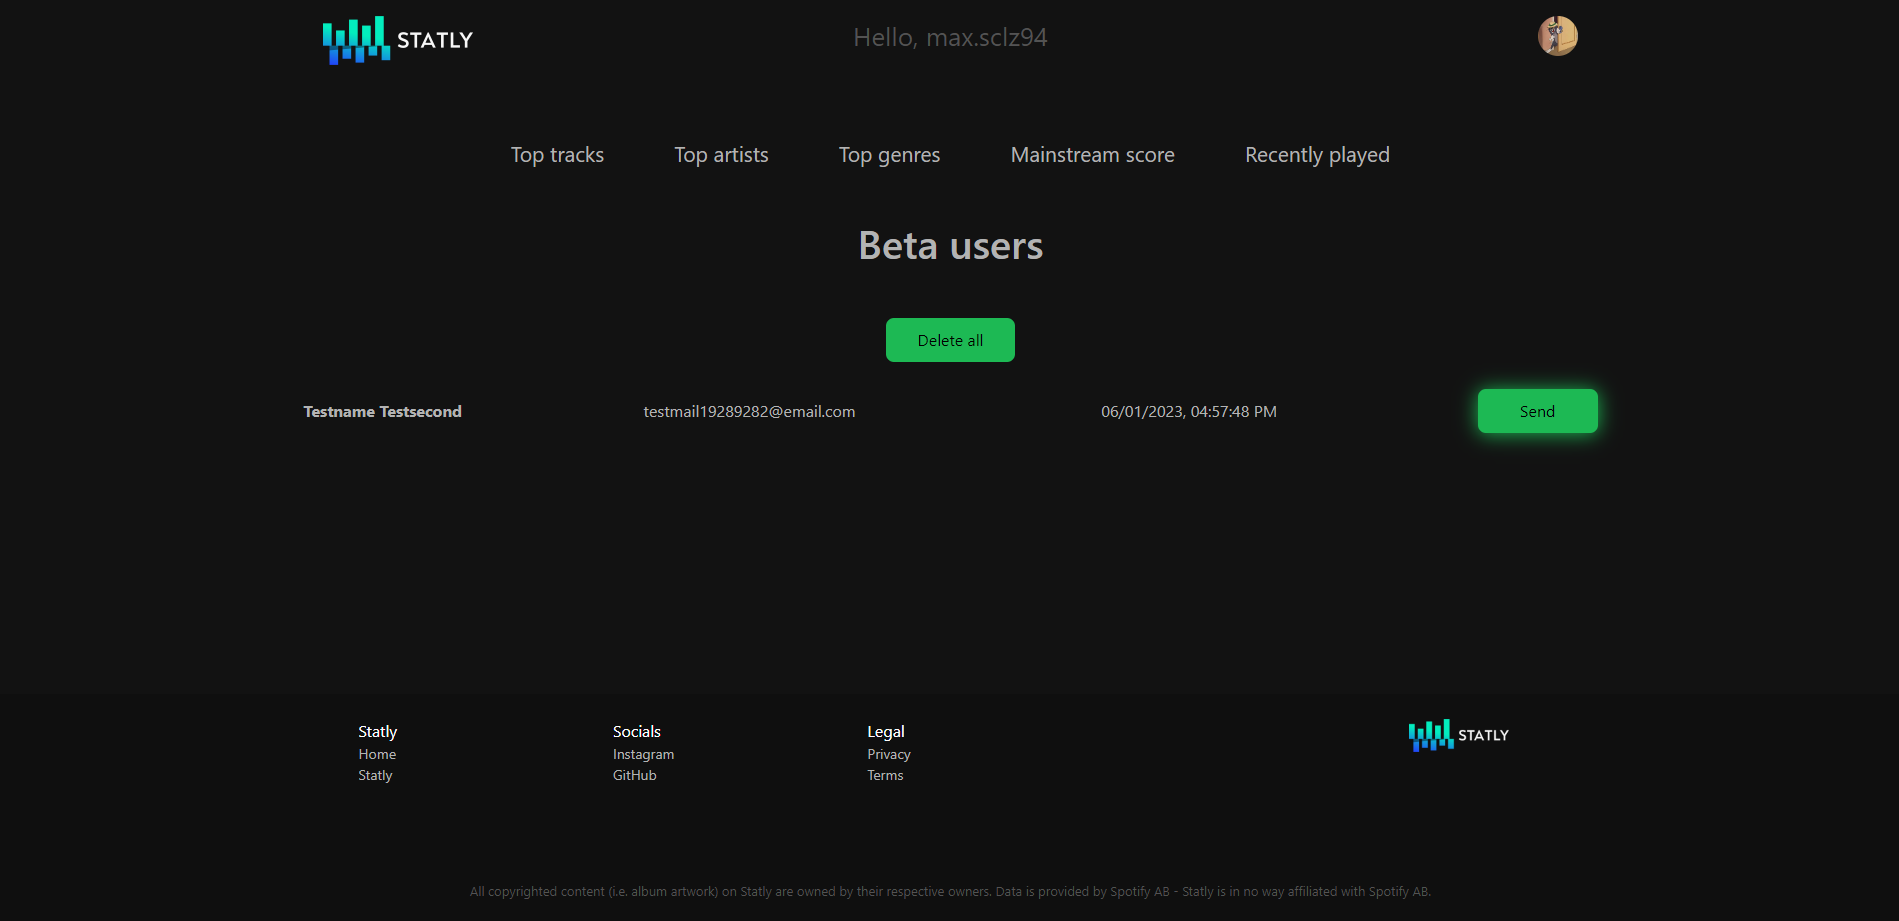
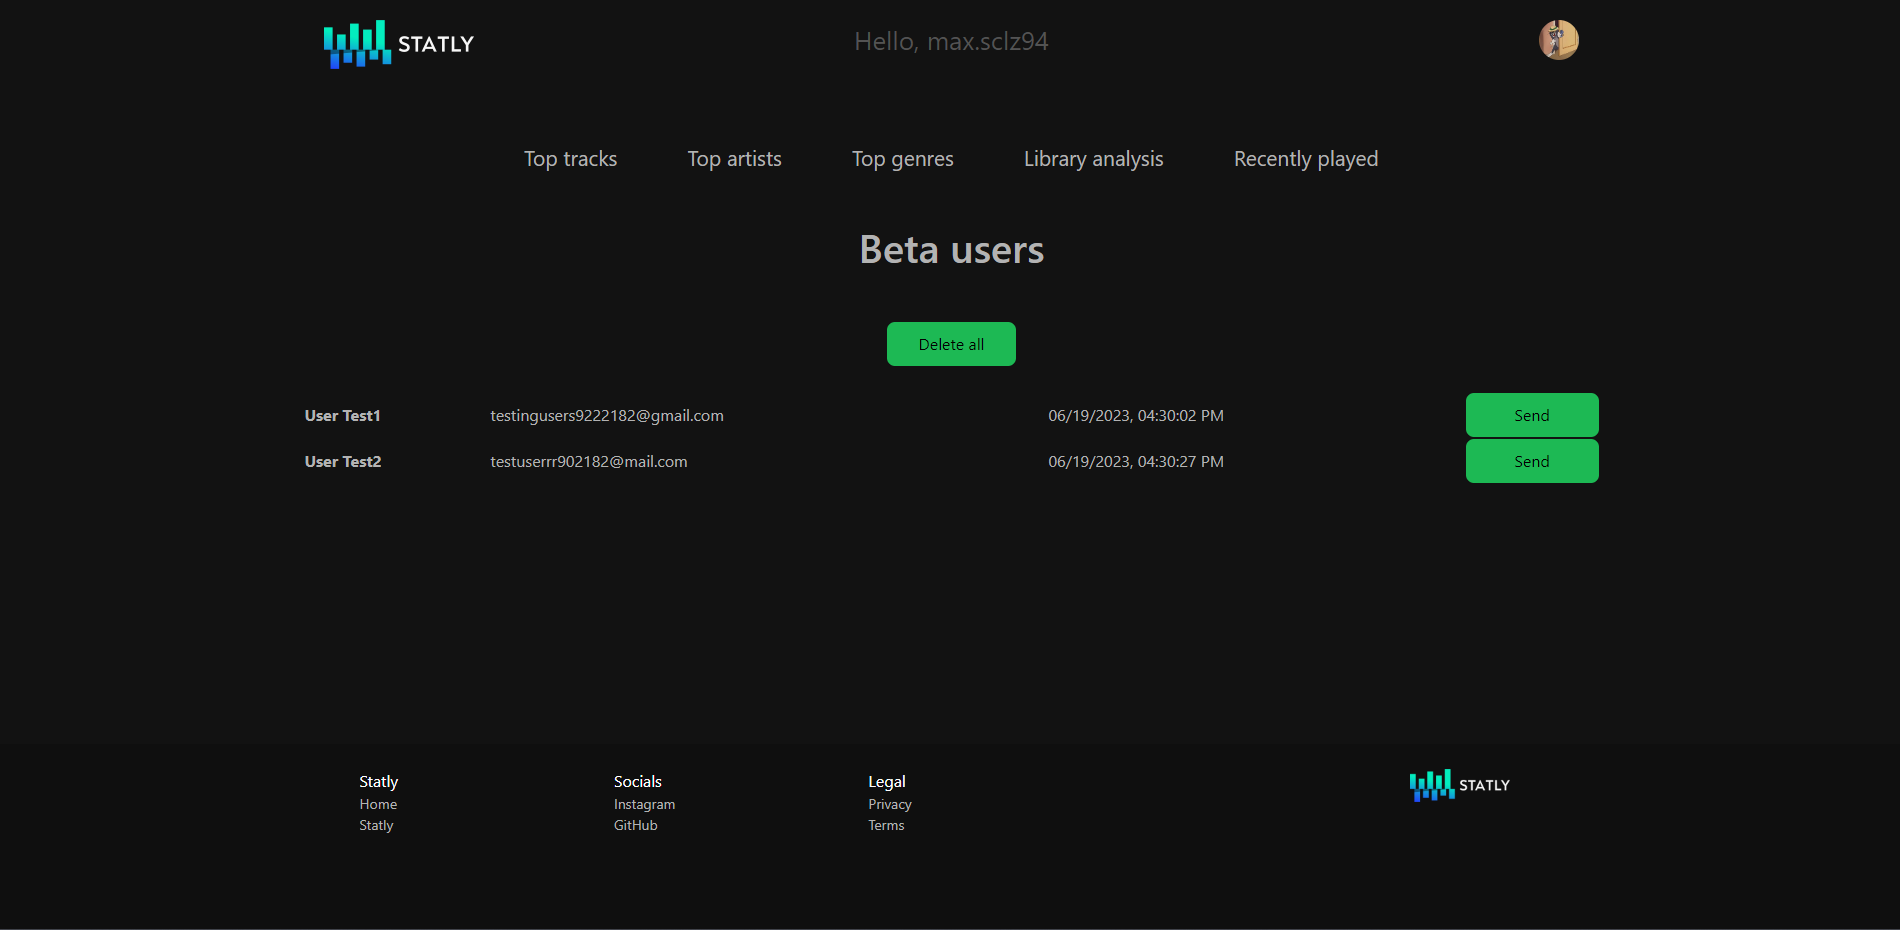
Modified join method in UserController, changes in README.md

diff --git a/src/main/java/com/laa66/statlyapp/controller/UserController.java b/src/main/java/com/laa66/statlyapp/controller/UserController.java
@@ -1,16 +1,12 @@
 package com.laa66.statlyapp.controller;
 
 import com.laa66.statlyapp.DTO.BetaUserDTO;
-import com.laa66.statlyapp.DTO.UserDTO;
-import com.laa66.statlyapp.model.Image;
 import com.laa66.statlyapp.service.MailService;
 import com.laa66.statlyapp.service.SpotifyAPIService;
 import com.laa66.statlyapp.service.UserService;
 import jakarta.servlet.http.HttpServletRequest;
 import jakarta.servlet.http.HttpServletResponse;
 import lombok.RequiredArgsConstructor;
-import org.apache.commons.lang3.StringUtils;
-import org.springframework.beans.factory.annotation.Value;
 import org.springframework.http.HttpHeaders;
 import org.springframework.http.HttpStatus;
 import org.springframework.http.ResponseEntity;
@@ -48,9 +44,9 @@ public class UserController {
         return ResponseEntity.ok(dto);
     }
 
-    @PostMapping("/beta/join")
-    public ResponseEntity<Void> join(@RequestBody BetaUserDTO betaUserDTO) {
-        userService.saveBetaUser(betaUserDTO);
+    @GetMapping("/beta/join")
+    public ResponseEntity<Void> join(@RequestParam("name") String fullName, @RequestParam("email") String email) {
+        userService.saveBetaUser(new BetaUserDTO(fullName, email, null));
         mailService.sendJoinBetaNotification();
         return ResponseEntity.noContent().build();
     }

diff --git a/src/test/java/com/laa66/statlyapp/controller/UserControllerUnitTest.java b/src/test/java/com/laa66/statlyapp/controller/UserControllerUnitTest.java
@@ -8,6 +8,7 @@ import com.laa66.statlyapp.repository.*;
 import com.laa66.statlyapp.service.MailService;
 import com.laa66.statlyapp.service.SpotifyAPIService;
 import com.laa66.statlyapp.service.UserService;
+import org.junit.jupiter.api.Disabled;
 import org.junit.jupiter.api.Test;
 import org.junit.jupiter.api.extension.ExtendWith;
 import org.springframework.beans.factory.annotation.Autowired;
@@ -123,10 +124,10 @@ class UserControllerUnitTest {
 
     @Test
     void shouldJoinBeta() throws Exception {
-        BetaUserDTO dto = new BetaUserDTO("name", "email", null);
-        mockMvc.perform(post("/user/beta/join").with(oauth2Login())
+        mockMvc.perform(get("/user/beta/join").with(oauth2Login())
                         .contentType(MediaType.APPLICATION_JSON)
-                        .content(mapper.writeValueAsString(dto)))
+                        .param("name", "name")
+                        .param("email", "email"))
                 .andExpect(status().isNoContent());
         verify(userService, times(1)).saveBetaUser(isA(BetaUserDTO.class));
         verify(mailService, times(1)).sendJoinBetaNotification();

diff --git a/src/main/java/com/laa66/statlyapp/config/SecurityConfig.java b/src/main/java/com/laa66/statlyapp/config/SecurityConfig.java
@@ -75,9 +75,9 @@ public class SecurityConfig {
                         .csrfTokenRepository(tokenRepository)
                         .csrfTokenRequestHandler(requestHandler))
                 .authorizeHttpRequests()
+                .requestMatchers(HttpMethod.GET, "/user/beta/join").permitAll()
                 .requestMatchers("/user/beta/all", "/user/beta/delete", "user/beta/notification").access((authentication, object) ->
                         new AuthorizationDecision(((OAuth2User) authentication.get().getPrincipal()).getAttributes().get("email").equals(ADMIN_EMAIL)))
-                .requestMatchers(HttpMethod.POST, "/user/beta/join").permitAll()
                 .anyRequest()
                 .authenticated()
                 .and()

diff --git a/README.md b/README.md
@@ -1,7 +1,7 @@
 # Statly - Your personal Spotify stats🎵
 
 Statly is a web application powered by Spotify API that lets you view your music
-statistics, account mainstream score, and recently played tracks.
+statistics, analyze your audio library, playlists and check recently played tracks.
 You can also export a playlist to your Spotify account from your favourite tracks in three different
 ranges.
 
@@ -22,25 +22,26 @@ Check out [Statly](https://laa66.github.io/statly-frontend/) to see the applicat
 #### It's simple! Go and check [Statly](https://laa66.github.io/statly-frontend/) or...
 #### Try to run this application on your local machine. You will need to do the following:
 
-1. Obtain a **Client ID** and **Client secret** from [Spotify Developer](https://developer.spotify.com/) panel
-2. Set the ``SPOTIFY_CLIENT_ID``, ``SPOTIFY_CLIENT_SECRET`` environment variables
-   with the values from your Spotify Developer panel and set ``STATLY_APP_URL``
-   variable to ``http://localhost:3000``
-3. Set the ``STATLY_DB_URL``, ``STATLY_DB_USERNAME`` and ``STATLY_DB_PASSWORD`` environment variables with the MySQL details.
-4. Set the ``STATLY_ADMIN_EMAIL`` variable to administrator's email to receive notifications about the app, set ``STATLY_MAIL_ADDRESS`` and ``STATLY_MAIL_PASSWORD`` for Gmail SMTP server properties.
-<!-- end -->
-
       # Clone this repository to your local machine
       $ git clone https://github.com/laa66/statly-backend-api.git
 
-      # Run the backend Spring Boot application in the root project directory:
-      $ ./mvnw spring-boot:run
+Create ``.env`` file in root project directory and set specific key/value pairs within it: 
+1. Obtain a **Client ID** and **Client secret** from [Spotify Developer](https://developer.spotify.com/) panel
+2. Set ``SPOTIFY_CLIENT_ID``, ``SPOTIFY_CLIENT_SECRET`` environment variables
+   with the values from your Spotify Developer panel
+3. Set ``STATLY_APP_URL`` variable to `http://localhost:3000`
+4. Set ``STATLY_ADMIN_EMAIL`` variable to administrator's email to receive notifications about the app
+5. Set ``STATLY_MAIL_ADDRESS`` and ``STATLY_MAIL_PASSWORD`` for Gmail SMTP server properties
+<!-- end -->
 
-      # Clone React-app repository to your local machine
+      # Run statly-backend-api using docker-compose in root directory
+      $ docker-compose up
+
+      # Clone the React-app repository to your local machine
       $ git clone https://github.com/laa66/statly-frontend.git
       
-      # Run the frontend React app in the project root directory: 
-      $ npm start
+      # Run statly-frontend using docker-compose in root directory
+      $ docker-compose up
 
 #### ...and Access the application in your web browser at ``http://localhost:3000``
 
@@ -63,7 +64,9 @@ Check out [Statly](https://laa66.github.io/statly-frontend/) to see the applicat
 
 * Shows users their ``top genres`` over three different time ranges
 
-* Displays a user's ``mainstream score`` based on the popularity of the tracks they listen to
+* Calculate and displays a user's ``library audio analysis`` based on different indicators such as average energy, tempo, mainstream, boringness etc.
+
+* Displays user's ``all playlists`` and give them ability to calculate their energy, tempo, mainstream and boringess score
 
 * Allows users to view their ``recently played`` tracks, giving them easy access to music they have enjoyed
 
@@ -89,16 +92,17 @@ You can view full documentation of this project in different paths:
 - Hibernate & JPA
 - Maven
 - OAuth 2.0
+- Docker
 - SQL
 - React.js
 - HTML & CSS
 - Bootstrap v5.3
-- IntelliJ IDEA Community Edition
-- Visual Studio Code
-- MySQL Workbench
 - PlanetScale
 - Railway Cloud
 - GitHub Pages
+- IntelliJ IDEA Community Edition
+- Visual Studio Code
+- MySQL Workbench
 
 #### Tested with:
 
@@ -112,7 +116,6 @@ You can view full documentation of this project in different paths:
 ## To-do 💡
 
 - Implement functionality for comparing user listening habits over the past 6 months/all time.
-- Develop functionality to analyze tracks structure in the user's Spotify library
 - Implement functionality that will allow users to add friends and check their statistics
 - Develop 'Playlist-battle' functionality
 - Develop 'Silent-disco room' functionality
@@ -122,12 +125,37 @@ You can view full documentation of this project in different paths:
 ## Screenshots 🛣
 
 ![Statly-home](src/main/resources/image/statly-home.png)
+<hr/>
+
 ![Statly-home-2](src/main/resources/image/statly-home-2.png)
+<hr/>
+
 ![Statly-home-tracks](src/main/resources/image/statly-tracks.png)
+<hr/>
+
 ![Statly-artists](src/main/resources/image/statly-artists.png)
+<hr/>
+
 ![Statly-genres](src/main/resources/image/statly-genres.png)
-![Statly-mainstream](src/main/resources/image/statly-mainstream.png)
+<hr/>
+
+![Statly-analysis](src/main/resources/image/statly-analysis.png)
+<hr/>
+
+![Statly-analysis2](src/main/resources/image/statly-analysis-2.png)
+<hr/>
+
+![Statly-analysis3](src/main/resources/image/statly-analysis-3.png)
+<hr/>
+
 ![Statly-dashboard](src/main/resources/image/statly-dashboard.png)
+<hr/>
+
+![Statly-recently](src/main/resources/image/statly-recently.png)
+<hr/>
+
 ![Statly-settings](src/main/resources/image/statly-settings.png)
+<hr/>
+
 ![Statly-beta](src/main/resources/image/statly-beta.png)
 
